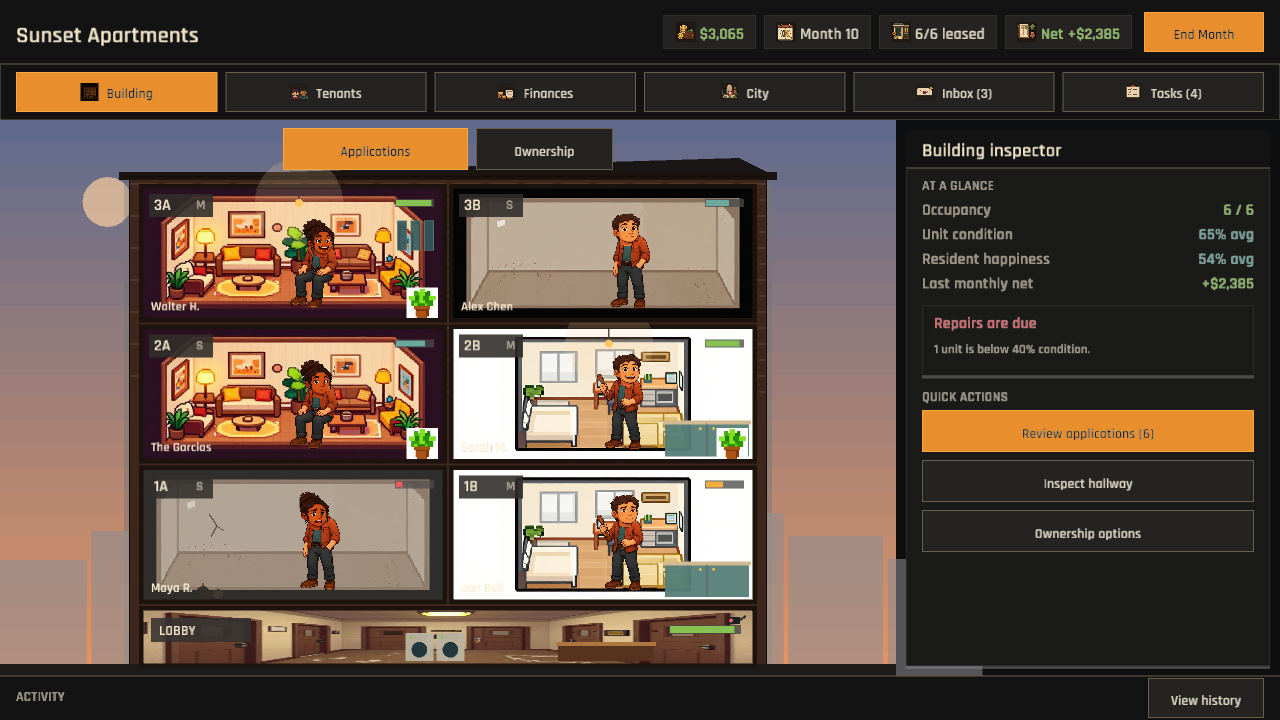
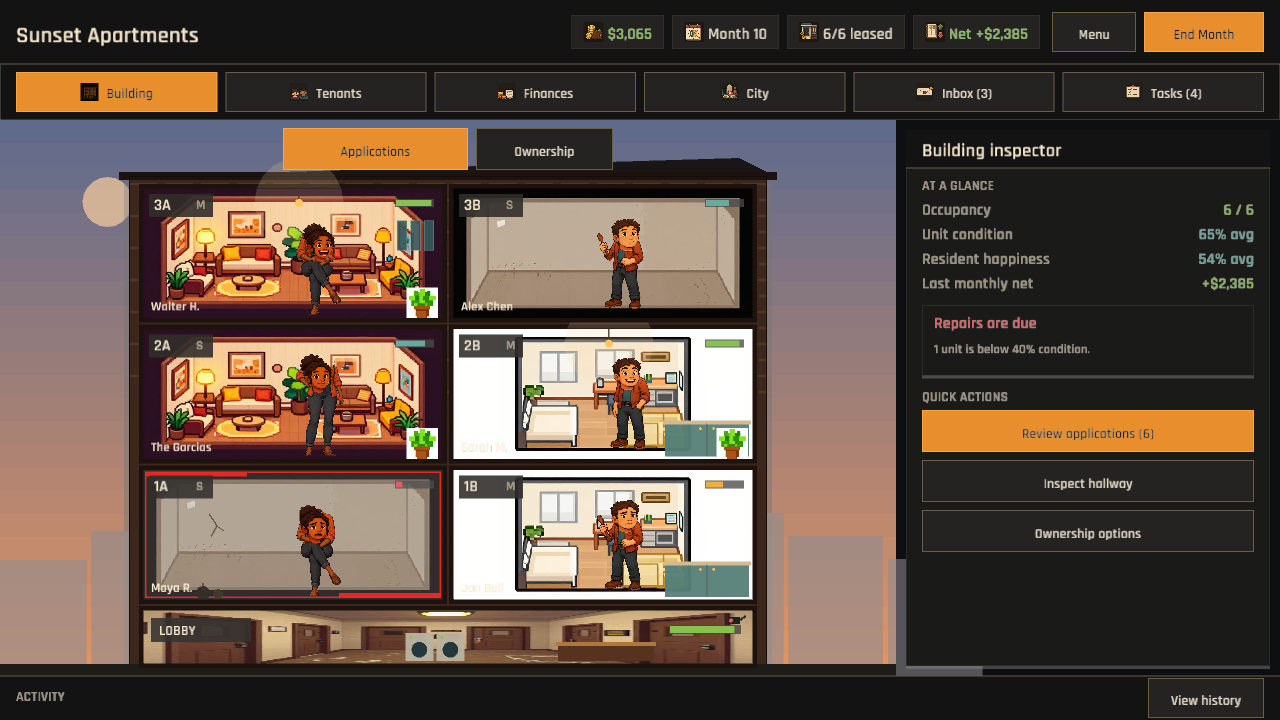
The keeper can always reach the building desk (touch controls and release copy)
Saving and recovery depended on Escape even though the browser game is\ntouch-first. Add a visible Menu control beside End Month, route it through the\nUI-action boundary, and prove overlays still own their input.\n\nThe catalog and README now describe the visible controls, six shipped campaign\nbuildings, and six balance strategies. Refreshed gameplay captures verify the\nheader at 1280x720, 800x600, and 640x480.\n\nVerified with cargo fmt -- --check, cargo clippy --all-targets\n--all-features -- -D warnings, cargo test --all-features (144 passed, one\nignored), UI capture verification, and publish.ps1 for Windows and WebGL\npreview deployment.\n\nCo-Authored-By: GPT-5 <noreply@openai.com>

diff --git a/src/ui/header.rs b/src/ui/header.rs
@@ -117,23 +117,34 @@ pub fn draw_header(
     draw_rectangle(0.0, 0.0, w, h, color::SURFACE_HEADER());
     draw_line(0.0, h, w, h, 1.0, color::BORDER_STRONG());
 
-    // End Month button, right-anchored, vertically centered.
+    // Keep primary time control and recovery/menu control together so both
+    // paths remain reachable with touch or a mouse.
     let btn_h = 40.0;
     let compact = w < 1000.0;
-    let btn_w = button_width("End Month", btn_h).max(if compact { 106.0 } else { 120.0 });
+    let end_month_w = button_width("End Month", btn_h).max(if compact { 106.0 } else { 120.0 });
+    let menu_w = button_width("Menu", btn_h).max(if compact { 74.0 } else { 84.0 });
     let outer = if compact { space::SM } else { space::LG };
-    let btn_x = w - btn_w - outer;
+    let end_month_x = w - end_month_w - outer;
+    let menu_x = end_month_x - menu_w - space::SM;
     let btn_y = (h - btn_h) / 2.0;
     if button_at(
-        Rect::new(btn_x, btn_y, btn_w, btn_h),
+        Rect::new(end_month_x, btn_y, end_month_w, btn_h),
         "End Month",
         true,
         Tone::Primary,
     ) {
         action = Some(UiAction::EndTurn);
     }
+    if button_at(
+        Rect::new(menu_x, btn_y, menu_w, btn_h),
+        "Menu",
+        true,
+        Tone::Secondary,
+    ) {
+        action = Some(UiAction::OpenPauseMenu);
+    }
     // Stat cluster: money / month / occupancy chips, flowed right-to-left so
-    // they hug the button and never collide with the building name.
+    // they hug the controls and never collide with the building name.
     let money_color = if money < 0 {
         color::NEGATIVE()
     } else if money < 500 {
@@ -182,7 +193,7 @@ pub fn draw_header(
         })
         .collect();
     let cluster_w: f32 = widths.iter().sum::<f32>() + chip_gap * (chips.len() as f32 - 1.0);
-    let cluster_right = btn_x - space::MD;
+    let cluster_right = menu_x - space::MD;
     let mut cx = (cluster_right - cluster_w).max(0.0);
     let cluster_left = cx;
     for (i, (icon, label, text_color)) in chips.iter().enumerate() {

diff --git a/src/state/gameplay_input/tests.rs b/src/state/gameplay_input/tests.rs
@@ -3,12 +3,14 @@ use super::*;
 #[test]
 fn overlays_reject_gameplay_actions_but_accept_event_responses() {
     let gameplay_action = UiAction::EndTurn;
+    let pause_action = UiAction::OpenPauseMenu;
     let response = UiAction::ResolveEventChoice {
         event_id: 1,
         choice_index: 0,
     };
 
     assert!(!action_allowed_while_blocked(false, true, &gameplay_action));
+    assert!(!action_allowed_while_blocked(false, true, &pause_action));
     assert!(action_allowed_while_blocked(false, true, &response));
     assert!(!action_allowed_while_blocked(true, false, &gameplay_action));
 }

diff --git a/src/state/gameplay_actions/tests.rs b/src/state/gameplay_actions/tests.rs
@@ -2,6 +2,15 @@ use super::*;
 use crate::economy::TransactionType;
 
 #[test]
+fn visible_pause_action_opens_the_pause_menu() {
+    let mut state = GameplayState::new();
+
+    state.process_action(UiAction::OpenPauseMenu);
+
+    assert!(state.show_pause_menu);
+}
+
+#[test]
 fn stale_application_is_not_discarded_when_the_unit_became_unavailable() {
     let mut state = GameplayState::new();
     let apartment_id = state.building.apartments[0].id;

diff --git a/src/state/gameplay_actions.rs b/src/state/gameplay_actions.rs
@@ -285,6 +285,9 @@ impl GameplayState {
             UiAction::EndTurn => {
                 self.end_turn();
             }
+            UiAction::OpenPauseMenu => {
+                self.show_pause_menu = true;
+            }
             UiAction::ReturnToMenu => {
                 self.pending_quit_to_menu = true;
             }

diff --git a/src/ui.rs b/src/ui.rs
@@ -88,6 +88,7 @@ pub enum UiAction {
 
     // Game flow
     EndTurn,
+    OpenPauseMenu,
     ReturnToMenu, // Used by Career Summary
 
     // Phase 3: City navigation

diff --git a/README.md b/README.md
@@ -18,9 +18,11 @@ Survive 36 months while keeping the building financially stable and livable. Com
 
 ## Controls
 
-- Mouse: select apartments and use buttons.
-- Space: end turn or advance time.
-- Esc: pause menu.
+- Tap or click: select apartments and use labelled controls.
+- End Month: tap the visible top-bar button to advance time. Space is an
+  optional shortcut.
+- Menu: tap the visible top-bar button to save or quit. Esc is an optional
+  shortcut.
 
 ## Current Scope
 
@@ -28,8 +30,9 @@ Playable building progression with multiple properties, tenant systems, repairs,
 
 ## Balance Harness
 
-`src/sim_harness.rs` plays the full 36 months headlessly under three strategies
-(greedy, investor, slumlord) across many seeds and writes a comparison table:
+`src/sim_harness.rs` plays the full 36 months headlessly under six strategies
+(greedy, investor, neglect, rent maximiser, condo liquidity, and portfolio
+saver) across many seeds and writes a comparison table:
 
 ```powershell
 cargo test balance_report -- --ignored --nocapture   # writes balance_report.md
